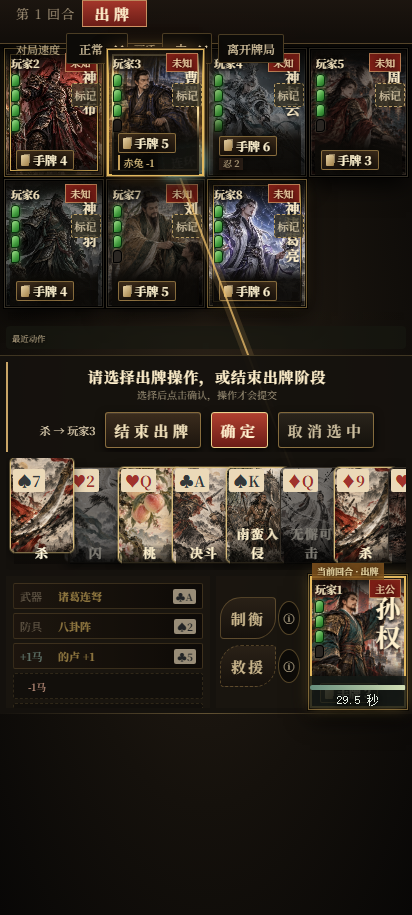
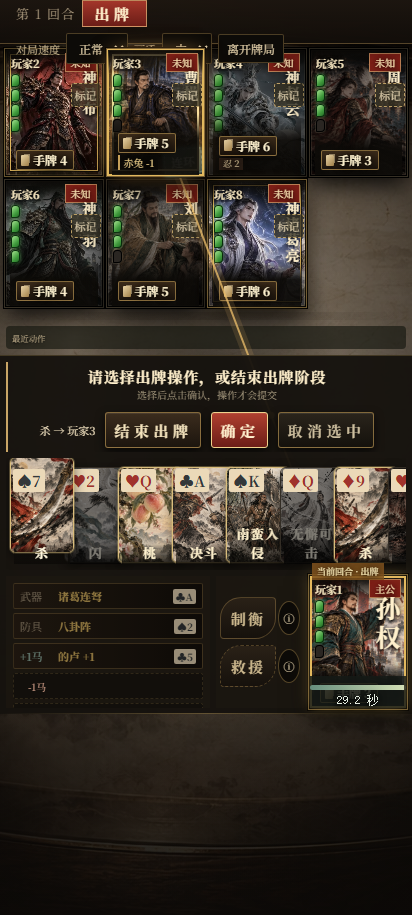
T21.2 god hero homepage battle background portrait polish

diff --git a/web/src/screens.css b/web/src/screens.css
@@ -170,3 +170,61 @@
 .background-music { padding: 4px 8px; color: var(--lq-text); background: #120e0ae6; border: 1px solid #c9a35c55; border-radius: 2px; }
 .background-music button { color: var(--lq-text); background: transparent; border: 1px solid #c9a35c55; border-radius: 2px; padding: 3px 8px; font-size: 12px; }
 .background-music input { accent-color: var(--lq-gold); }
+
+/* ═════ T21.2 home: hall scene + blended god hero, accent from the hero theme ═════ */
+.home-page {
+  --hero-accent: #c9a35c; --hero-light: #8a6a30;
+  background: #0b0907 url('/assets/backgrounds/home/hall_v1.webp') var(--scene-position, 78% 50%) / cover no-repeat;
+  overflow: hidden;
+}
+/* Calm, dark UI side at left; the scene keeps its fortress, mist and banners at right. */
+.home-page::before {
+  z-index: 0;
+  background:
+    linear-gradient(90deg, #080605f7 0 24%, #080605cc 38%, #08060555 58%, #08060522 75%, #08060566 100%),
+    radial-gradient(ellipse 40% 60% at 74% 46%, color-mix(in srgb, var(--hero-light) 34%, transparent), transparent 70%),
+    linear-gradient(180deg, #08060599, transparent 22% 70%, #080605e6);
+}
+.home-hero {
+  position: absolute; z-index: 1; right: max(2vw, calc(50vw - 860px)); bottom: 0;
+  height: 100vh; height: 100dvh; aspect-ratio: 9 / 16; max-width: 52vw; pointer-events: none;
+  /* Feathered on every edge so the figure sits inside the scene, not on top of it. */
+  -webkit-mask-image: radial-gradient(ellipse 58% 62% at 50% 44%, #000 52%, #0008 72%, transparent 92%);
+  mask-image: radial-gradient(ellipse 58% 62% at 50% 44%, #000 52%, #0008 72%, transparent 92%);
+}
+.home-hero .dynamic-portrait :is(img, video) { object-fit: cover; filter: saturate(1.05) contrast(1.04); }
+/* Ground mist and a cool rim of hero light blend the base of the figure into the river below. */
+.home-hero::after {
+  content: ''; position: absolute; inset: auto -20% 0; height: 34%;
+  background: radial-gradient(ellipse 60% 70% at 50% 100%, #0b0907f2, #0b0907aa 45%, transparent 75%);
+}
+.home-hero::before {
+  content: ''; position: absolute; z-index: 1; inset: 6% -10% 30%; pointer-events: none; mix-blend-mode: screen;
+  background: radial-gradient(ellipse 45% 40% at 50% 30%, color-mix(in srgb, var(--hero-light) 30%, transparent), transparent 70%);
+}
+.home-page > .home-panel { z-index: 2; }
+.home-page .ink-mist { z-index: 1; }
+.home-page .ink-mist-two { right: 30vw; opacity: .22; }
+
+/* Hero accent: title glow, primary-button edge, panel trim. Base lacquer/gold is unchanged. */
+.home-page .home-panel.paper-panel { box-shadow: 0 0 0 1px #000, 0 0 0 2px color-mix(in srgb, var(--hero-accent) 40%, #c9a35c 30%), 0 22px 60px #000c; }
+.home-panel h1 { filter: drop-shadow(0 3px 0 #000) drop-shadow(0 0 24px color-mix(in srgb, var(--hero-accent) 45%, transparent)); }
+.home-panel h2 { color: var(--hero-accent); }
+.home-page .brush-button.primary { border-color: var(--hero-accent); box-shadow: inset 0 1px 0 #ffffff1f, 0 0 18px color-mix(in srgb, var(--hero-accent) 30%, transparent), 0 6px 16px #0009; }
+.home-page input:focus { border-bottom-color: var(--hero-accent); }
+.home-page .eyebrow { color: color-mix(in srgb, var(--hero-accent) 70%, #c9a35c); }
+
+@media (max-width: 900px), (max-height: 600px) {
+  .home-hero { right: -6vw; opacity: .55; }
+}
+@media (prefers-reduced-motion: reduce) { .home-hero::before { mix-blend-mode: normal; } }
+/* Iteration: longer feather + a theme-tinted dusk over the scene behind the hero, so the hero's own sky meets darkness, not paper. */
+.home-hero {
+  -webkit-mask-image: radial-gradient(ellipse 52% 60% at 50% 42%, #000 32%, #000b 52%, #0004 72%, transparent 90%);
+  mask-image: radial-gradient(ellipse 52% 60% at 50% 42%, #000 32%, #000b 52%, #0004 72%, transparent 90%);
+}
+.home-page::after {
+  content: ''; position: absolute; z-index: 0; inset: 0; pointer-events: none;
+  background: radial-gradient(ellipse 30% 58% at 77% 44%, color-mix(in srgb, var(--hero-light) 38%, #07060a) 0%, color-mix(in srgb, var(--hero-light) 22%, #07060acc) 45%, transparent 80%);
+  mix-blend-mode: multiply;
+}

diff --git a/web/src/homeHero.ts b/web/src/homeHero.ts
@@ -1,0 +1,20 @@
+// Home-screen hero themes. Media comes from the existing idle-portrait registry and
+// production general portraits; only the accent and lighting differ per hero.
+export type HomeHero = {
+  id: string
+  name: string
+  accent: string        // primary accent: title glow, primary button edge, borders
+  light: string         // environmental light behind the hero
+  heroPosition: string  // object-position inside the hero viewport
+  scenePosition: string // background-position of the hall scene
+}
+
+export const homeHeroes: Record<string, HomeHero> = {
+  zhugeliang: { id: 'fire_god_zhugeliang', name: '神诸葛亮', accent: '#b8c6ee', light: '#6f7fd6', heroPosition: 'center 12%', scenePosition: '78% 50%' },
+  lvbu: { id: 'forest_god_lvbu', name: '神吕布', accent: '#e0574a', light: '#b3241a', heroPosition: 'center 10%', scenePosition: '78% 50%' },
+  zhouyu: { id: 'fire_god_zhouyu', name: '神周瑜', accent: '#e8754d', light: '#b8401e', heroPosition: 'center 12%', scenePosition: '78% 50%' },
+  guanyu: { id: 'wind_god_guanyu', name: '神关羽', accent: '#7fc0a0', light: '#2f7a5c', heroPosition: 'center 10%', scenePosition: '78% 50%' },
+  ganning: { id: 'thunder_god_ganning', name: '神甘宁', accent: '#c9d6e6', light: '#2d4a78', heroPosition: 'center 12%', scenePosition: '78% 50%' },
+}
+
+export const defaultHomeHero = 'zhugeliang'

diff --git a/web/e2e/t21-visual.spec.ts b/web/e2e/t21-visual.spec.ts
@@ -173,3 +173,16 @@ test('T21.1 failed fullscreen and orientation lock still enters and plays', asyn
   await expect(page.locator('.self-area .player-self')).toBeInViewport()
   await context.close()
 })
+
+test('T21.2 portrait close-ups', async ({ page }) => {
+  await page.setViewportSize({ width: 1440, height: 900 })
+  await fixture(page, 8, `s.projection.players[3].character_id='fire_god_zhugeliang';s.projection.players[5].character_id='thunder_god_ganning'`)
+  await page.waitForTimeout(1500)
+  const rects = await page.locator('.player-panel').evaluateAll(ps => ps.map(p => {
+    const b = p.querySelector('.portrait-button')!.getBoundingClientRect()
+    const m = [...p.querySelectorAll('.dynamic-portrait > img, .dynamic-portrait > video')].map(e => { const r = e.getBoundingClientRect(); const cs = getComputedStyle(e); return [Math.round(r.width), Math.round(r.height), cs.objectFit, cs.objectPosition, (e as HTMLVideoElement).videoWidth ?? 0, (e as HTMLVideoElement).videoHeight ?? 0, (e as HTMLImageElement).naturalWidth ?? 0, (e as HTMLImageElement).naturalHeight ?? 0] })
+    return [p.getAttribute('data-character-id'), Math.round(b.width), Math.round(b.height), m]
+  }))
+  console.log(JSON.stringify(rects))
+  for (const id of ['p1', 'p2', 'p4', 'p6']) await page.locator(`[data-player-id="${id}"]`).screenshot({ path: `${dir}/portrait-${id}.png` })
+})

diff --git a/web/src/components/HomePage.tsx b/web/src/components/HomePage.tsx
@@ -1,6 +1,12 @@
 import { tryLandscape } from './LandscapeGate'
 import { useEffect, useMemo, useState } from 'react'
 import { useGame } from '../state/GameContext'
+import type { CSSProperties } from 'react'
+import { DynamicPortrait } from './DynamicPortrait'
+import { idlePortrait } from '../idlePortraits'
+import { generalPortrait } from '../assets'
+import { readVfxQuality } from '../vfx/CombatVFXRuntime'
+import { homeHeroes, defaultHomeHero } from '../homeHero'
 
 function roomFromUrl() {
   const pathMatch = window.location.pathname.match(/^\/room\/([A-Z0-9]+)/i)
@@ -49,7 +55,13 @@ export function HomePage() {
     return clean
   }
 
-  return <main className="home-page">
+  const hero = homeHeroes[defaultHomeHero]
+  return <main className="home-page" data-hero={defaultHomeHero}
+    style={{ '--hero-accent': hero.accent, '--hero-light': hero.light, '--scene-position': hero.scenePosition } as CSSProperties}>
+    <div className="home-hero" aria-hidden="true">
+      <DynamicPortrait staticPortrait={generalPortrait(hero.id, 'qun', {})} idleVideo={idlePortrait(hero.id)?.video}
+        objectPosition={hero.heroPosition} name={hero.name} quality={readVfxQuality()} />
+    </div>
     <div className="ink-mist ink-mist-one" />
     <div className="ink-mist ink-mist-two" />
     <section className="home-panel paper-panel">

diff --git a/web/src/battle-skin.css b/web/src/battle-skin.css
@@ -95,3 +95,18 @@
   .equipment-choice, .equipment-empty { grid-template-columns: 26px 1fr; min-height: 22px; padding: 1px 4px; }
   .equipment-choice .suit-text { display: none; }
 }
+
+/* ═════ T21.2 battle table: provided lacquer/bronze oval scene, graded for readability ═════ */
+.game-page.table-background { background: #0b0907 url('/assets/backgrounds/table/battle_v2.webp') center / cover no-repeat; }
+.game-page.table-background::before {
+  background:
+    radial-gradient(ellipse 34% 30% at 50% 47%, #0b0907b3, #0b090766 60%, transparent 100%),
+    radial-gradient(ellipse 80% 75% at 50% 48%, #0b090740, #0b0907a6 72%, #0b0907e6 100%),
+    linear-gradient(180deg, #0b090799, transparent 14% 62%, #0b0907d9 100%);
+}
+.game-board::before { display: none; }
+
+/* ═════ T21.2 portrait fill: god art carries wide atmospheric margins; zoom to the figure ═════ */
+.game-board .player-panel[data-character-id*="god"] .dynamic-portrait > :is(img, video) {
+  object-fit: cover; scale: 1.32; transform-origin: 50% 14%;
+}

diff --git a/web/src/styles.css b/web/src/styles.css
@@ -829,7 +829,6 @@ input:focus { border-color: #b07a23; box-shadow: 0 0 0 2px rgba(189,135,44,.18);
 
 /* Full detail keeps the complete portrait master and matching fallback. */
 .game-general-detail > .dynamic-portrait :is(img,video) { object-fit:contain; }
-.game-board :is([data-character-id="shadow_god_liubei"],[data-character-id="shadow_god_luxun"],[data-character-id="thunder_god_ganning"],[data-character-id="thunder_god_zhangliao"]) .dynamic-portrait :is(img,video) { object-fit:contain; }
 
 .game-general-detail[data-portrait-mode='dynamic'] > .dynamic-portrait { height:auto; aspect-ratio:9/16; max-height:min(62vh,560px); }
 
